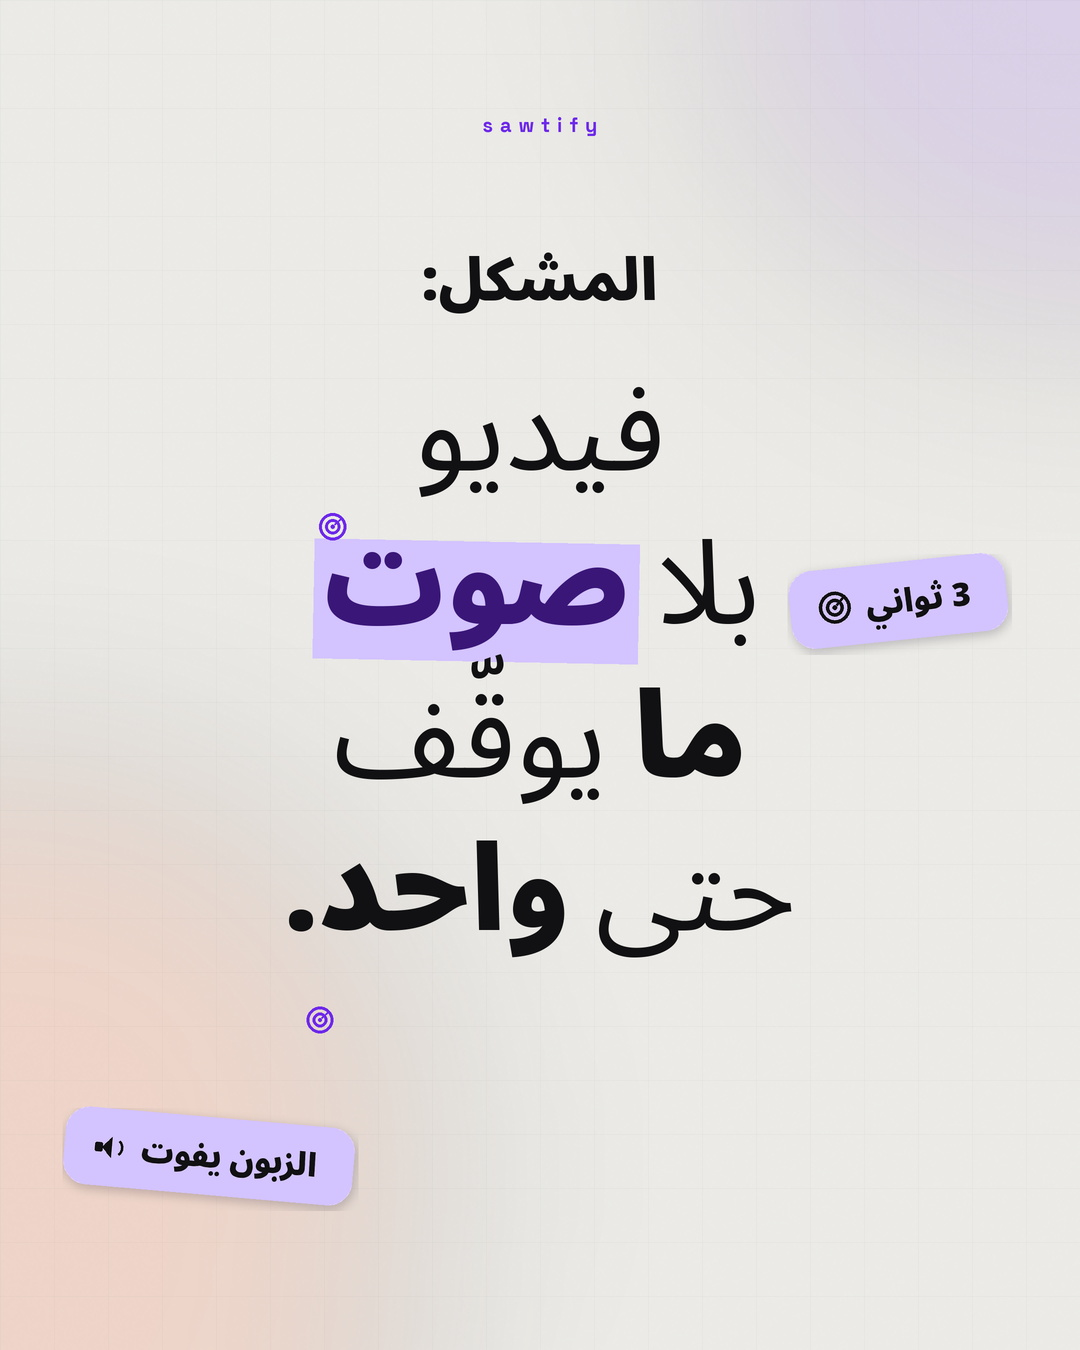
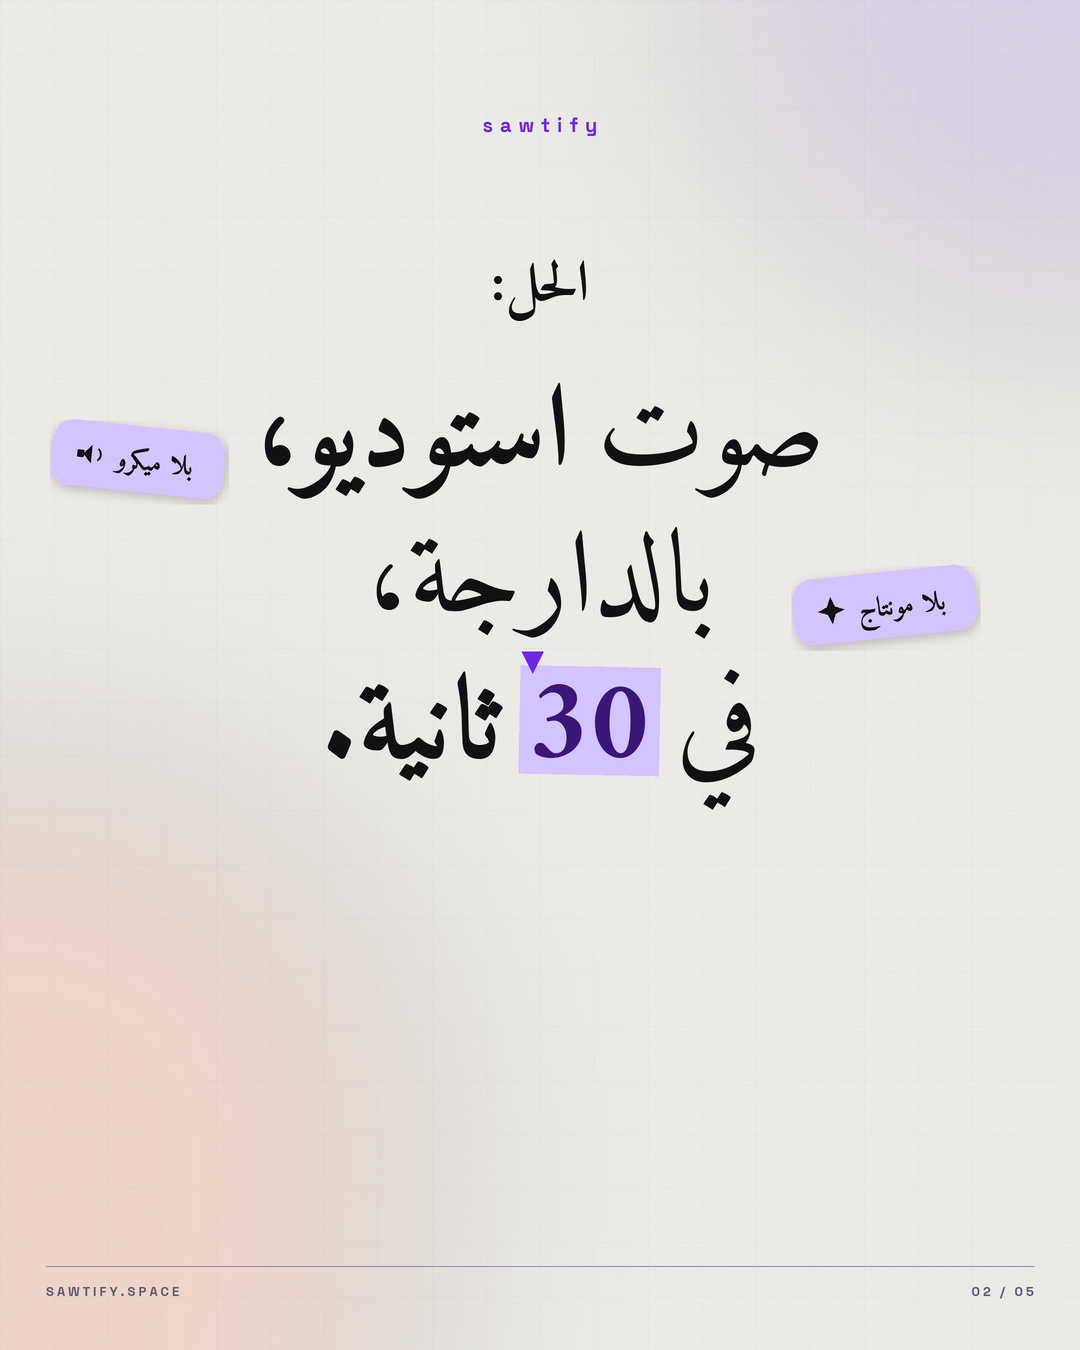
feat(lettre): Amiri (ar) + Space Grotesk (fr), copy reelle Sawtify (30 s, 100 DA, 50 pts)
- polices : Amiri Regular/Bold pour l'arabe, Space Grotesk pour tout le latin ; pastilles en Amiri bold
- copy corrigee sur les vrais chiffres du produit : 20 pts = 1 voix ~100 DA, 500 DA = 5 voix, 30 voix, 50 pts offerts, 30 secondes
- geometrie : taille et haut du bloc calcules ensemble (remplissage de colonne), jamais sous l'accroche
- petit triangle au coin du surligneur (style reference), cibles decoratives retirees
- pied de page url + pagination en Space Grotesk

diff --git a/marketing/instagram/lettre.py b/marketing/instagram/lettre.py
@@ -34,15 +34,20 @@ MUT = (96, 90, 110)
 VIO = (109, 39, 234)
 VIO_SOFT = (211, 195, 255)
 ORANGE = (253, 96, 41)
+ORANGE_SOFT = (255, 206, 186)
 
-REG = "NotoSansArabic-Regular.ttf"
-MED = "NotoSansArabic-SemiBold.ttf"
-BLK = "NotoSansArabic-Black.ttf"
-WORD = "SpaceGrotesk-Bold.ttf"
+# arabe : naskh Amiri (regular + bold) · latin : Space Grotesk
+AMR_R = "Amiri-Regular.ttf"
+AMR_B = "Amiri-Bold.ttf"
+SG_R = "SpaceGrotesk-Regular.ttf"
+SG_M = "SpaceGrotesk-Medium.ttf"
+SG_B = "SpaceGrotesk-Bold.ttf"
 
-WEIGHT = {"r": REG, "m": MED, "b": BLK}
-WEIGHT_LAT = {"r": "SpaceGrotesk-Regular.ttf", "m": "SpaceGrotesk-Medium.ttf",
-              "b": "SpaceGrotesk-Bold.ttf"}
+WEIGHT = {"r": AMR_R, "m": AMR_B, "b": AMR_B}
+WEIGHT_LAT = {"r": SG_R, "m": SG_M, "b": SG_B}
+PILL_FONT = {"ar": AMR_B, "lat": SG_B}
+WORD = SG_B
+BLK = AMR_B
 
 _logo: dict = {}
 
@@ -109,7 +114,7 @@ def _icon(kind, size, color):
     return im
 
 
-def pill_size(text, size, icon, font=BLK):
+def pill_size(text, size, icon, font=AMR_B):
     tw_ = twidth(text, font, size)
     ic = int(size * 1.15) if icon else 0
     gap = int(size * 0.42) if icon else 0
@@ -119,7 +124,7 @@ def pill_size(text, size, icon, font=BLK):
 
 
 def pill(base, text, cx, cy, rot=-6, size=30, fill=VIO_SOFT, fg=INK,
-         icon="target", font=BLK):
+         icon="target", font=AMR_B):
     tw_ = twidth(text, font, size)
     ic = int(size * 1.15) if icon else 0
     gap = int(size * 0.42) if icon else 0
@@ -200,7 +205,7 @@ def hline(base, tokens, cx, y, size, gap=None, fonts=None, rtl=True):
             tdraw(mask, t, xt, y, size, 255, fonts[w], align="left")
             bb = mask.getbbox()
             if bb:
-                px, py = size * 0.12, size * 0.09
+                px, py = size * 0.13, size * 0.15
                 bx0, by0 = bb[0] / SS - px, bb[1] / SS - py
                 bw = (bb[2] - bb[0]) / SS + 2 * px
                 bh = (bb[3] - bb[1]) / SS + 2 * py
@@ -210,7 +215,8 @@ def hline(base, tokens, cx, y, size, gap=None, fonts=None, rtl=True):
                 bar = bar.rotate(-1.1, expand=True, resample=Image.BICUBIC)
                 base.alpha_composite(bar, (int((bx0 - (bar.width / SS - bw) / 2) * SS),
                                            int((by0 - (bar.height / SS - bh) / 2) * SS)))
-                dart(base, bx0 + bw * 0.06, by0 - size * 0.12, size * 0.26, VIO, 0)
+                marker(base, bx0 + size * 0.02, by0 - size * 0.13,
+                       size * 0.19, VIO)
                 tdraw(base, t, xt, y, size, (58, 22, 120), fonts[w], align="left")
                 continue
         tdraw(base, t, xt, y, size, INK, fonts[w], align="left")
@@ -291,146 +297,168 @@ def kicker(base, text, y=300, size=58, font=BLK):
 # ═══════════════════════════════════════════════════════════════════════════
 #  slides
 # ═══════════════════════════════════════════════════════════════════════════
-def slide(spec, seed=3, rtl=True):
+def footer(base, page, rtl=True):
+    """Pied de page : url à gauche, pagination à droite, en Space Grotesk."""
+    d = ImageDraw.Draw(base)
+    f = tk._pil(SG_B, 13)
+    txt = "SAWTIFY.SPACE"
+    x = 46.0
+    for c in txt:
+        d.text((x * SS, 1296 * SS), c, font=f, fill=(*MUT, 255), anchor="ls")
+        x += d.textlength(c, font=f) / SS + 3.0
+    d.line([46 * SS, 1266 * SS, (W - 46) * SS, 1266 * SS],
+           fill=(150, 140, 172, 60), width=int(1.2 * SS))
+    num = page
+    x = W - 46.0
+    for c in reversed(num):
+        x -= d.textlength(c, font=f) / SS
+        d.text((x * SS, 1296 * SS), c, font=f, fill=(*MUT, 255), anchor="ls")
+        x -= 3.0
+
+
+def slide(spec, seed=3, rtl=True, fonts=None, page="", pill_font=None,
+          size_default=96):
     base = paper(seed=seed)
     wordmark(base)
-    fonts = spec.get("fonts") or WEIGHT
-    size = spec.get("size", 118 if rtl else 90)
-    while size > 60 and max((g[2] - g[0]) for g in
-                            lines_geo(spec["lines"], W / 2, 0, size, 1.3, fonts, rtl)) > 812:
-        size -= 2
-    top = spec.get("top", 470)
-    lead = spec.get("lead", 1.30)
-    kicker(base, spec["kicker"], spec.get("kick_y", 300), spec.get("kick_size", 58),
-           fonts["b"] if spec.get("fonts") else BLK)
+    fonts = fonts or WEIGHT
+    pf = pill_font or fonts["b"]
+    size = spec.get("size", size_default)
+    top = spec.get("top", 452)
+    lead = spec.get("lead", 1.26)
+    n = len(spec["lines"])
+    kicker(base, spec["kicker"], spec.get("kick_y", 300),
+           spec.get("kick_size", 56), fonts["b"])
+
+    def wid(sz):
+        return max((g[2] - g[0]) for g in lines_geo(spec["lines"], W / 2, 0,
+                                                     sz, lead, fonts, rtl))
+
+    # on cherche la plus grande taille qui tienne : sous l'accroche et
+    # au-dessus du pied de page, sans jamais dépasser la largeur utile
+    best = (size, top)
+    for sz in range(60, 180, 2):
+        ty = max(top, 356 + 0.94 * sz)
+        bottom = ty + (n - 1) * sz * lead + 0.46 * sz
+        if wid(sz) <= 830 and bottom <= 1180:
+            best = (sz, ty)
+    size, top = best
 
     geo = lines_geo(spec["lines"], W / 2, top, size, lead, fonts, rtl)
     placed = []
-    fallback_y = 1156
     for it in spec.get("pills", ()):
         it = dict(it)
-        if it.get("dy") in (54, 58, 62, 44, 46, 56):   # posé sous la ligne
-            it["dy"] = -14
-        hit = place_pill(it, geo, size, fonts, placed)
+        fnt = PILL_FONT[it.get("font", "ar")] if it.get("font") else pf
+        hit = place_pill(it, geo, size, {"b": fnt}, placed)
         if not hit:
-            # repli : sous le bloc, côté gauche puis droit, sans toucher au texte
-            psize = it.get("size", 32)
-            pw, ph = pill_size(it["t"], psize, it.get("icon", "target"), fonts["b"])
-            for cx in (40 + 24 + pw / 2, W - 40 - 24 - pw / 2):
-                box = (cx - pw / 2, fallback_y - ph / 2, cx + pw / 2,
-                       fallback_y + ph / 2)
+            psize = it.get("size", 30)
+            pw, ph = pill_size(it["t"], psize, it.get("icon", "target"), fnt)
+            last = geo[-1][0] + size * 0.98
+            y = min(max(last + ph * 0.75, 1000), 1160)
+            for cx in (46 + 22 + pw / 2, W - 46 - 22 - pw / 2):
+                box = (cx - pw / 2, y - ph / 2, cx + pw / 2, y + ph / 2)
                 if box[3] < 1216 and not any(_hit(box, q, pad=10) for q in placed):
                     placed.append(box)
-                    pill(base, it["t"], cx, fallback_y, it.get("rot", -6), psize,
+                    pill(base, it["t"], cx, y, it.get("rot", -6), psize,
                          it.get("fill", VIO_SOFT), INK, it.get("icon", "target"),
-                         fonts["b"])
+                         fnt)
                     break
             continue
         cx, cy, psize, box = hit
         placed.append(box)
         pill(base, it["t"], cx, cy, it.get("rot", -6), psize,
-             it.get("fill", VIO_SOFT), INK, it.get("icon", "target"), fonts["b"])
+             it.get("fill", VIO_SOFT), INK, it.get("icon", "target"), fnt)
     block(base, spec["lines"], W / 2, top, size, lead, fonts=fonts, rtl=rtl)
     for d in spec.get("darts", ()):
         dart(base, d[0], d[1], d[2], VIO, d[3] if len(d) > 3 else 0)
+    footer(base, page, rtl)
     return base
 
 
-DZ = {"id": "dz", "seed": 3, "slides": [
-    dict(kicker="شكون احنا:",
-         lines=[[("نصنعو", "r", None)],
-                [("أصوات", "b", "mark"), ("تبيع", "r", None)],
-                [("بالدارجة،", "b", None)],
-                [("من", "r", None), ("الفكرة", "b", None)],
-                [("حتى", "r", None), ("التسليم.", "b", None)]],
-         pills=[dict(t="دارجة بلادنا", anchor=(1, "right"), dx=26, dy=-26,
-                     rot=6, icon="target"),
-                dict(t="500 دج · 30 ثانية", anchor=(0, "right"), dx=-4, dy=56,
-                     rot=-4, icon="sound"),
-                dict(t="تسليم 24 ساعة", anchor=(4, "left"), dx=-6, dy=62,
-                     rot=5, icon="spark")],
-         darts=[(600, 1104, 34), (296, 690, 30, 10)]),
+DZ = {"id": "dz", "seed": 3, "fonts": WEIGHT, "pill_font": AMR_B, "rtl": True,
+      "size": 126, "slides": [
     dict(kicker="المشكل:",
-         lines=[[("فيديو", "r", None)],
-                [("بلا", "r", None), ("صوت", "b", "mark")],
+         lines=[[("فيديو", "r", None), ("بلا", "r", None)],
+                [("صوت،", "b", "mark")],
                 [("ما", "b", None), ("يوقّف", "r", None)],
                 [("حتى", "r", None), ("واحد.", "b", None)]],
-         pills=[dict(t="3 ثواني", anchor=(1, "right"), dx=24, dy=-22, rot=6,
-                     icon="target"),
-                dict(t="الزبون يفوت", anchor=(3, "left"), dx=-4, dy=54, rot=-5,
-                     icon="sound")],
-         darts=[(320, 1020, 30)]),
+         pills=[dict(t="3 ثواني", anchor=(1, "right"), icon="target", size=28),
+                dict(t="الزبون يفوت", anchor=(2, "left"), icon="sound", size=26,
+                     rot=5)]),
+    dict(kicker="الحل:",
+         lines=[[("صوت", "r", None), ("استوديو،", "b", None)],
+                [("بالدارجة،", "r", None)],
+                [("في", "r", None), ("30", "b", "mark"), ("ثانية.", "b", None)]],
+         pills=[dict(t="بلا ميكرو", anchor=(0, "left"), icon="sound", size=27,
+                     rot=-6),
+                dict(t="بلا مونتاج", anchor=(1, "right"), icon="spark", size=27,
+                     rot=6)]),
     dict(kicker="واش تدير:",
-         lines=[[("ابعت", "b", None)],
-                [("السكريبت،", "r", None)],
-                [("ختر", "b", "mark")],
-                [("الصوت،", "r", None)],
-                [("خود", "r", None), ("في 24 ساعة.", "b", None)]],
-         pills=[dict(t="دارجة جزايرية", anchor=(2, "left"), dx=-2, dy=46, rot=-6,
-                     icon="target")],
-         darts=[(600, 1096, 34), (326, 748, 30, -8)]),
-    dict(kicker="الفرق:",
-         lines=[[("24", "b", "mark"), ("ساعة", "r", None)],
-                [("عندنا،", "b", None)],
-                [("21", "b", None), ("يوم", "r", None)],
-                [("في", "r", None), ("الاستوديو.", "b", None)]],
-         pills=[dict(t="بلا انتظار", anchor=(2, "right"), dx=22, dy=-20, rot=-6,
-                     icon="target")],
-         darts=[(340, 1040, 34), (604, 700, 30)]),
-    dict(kicker="و من بعد؟",
-         lines=[[("خود", "r", None)],
-                [("الصوت", "b", "mark")],
-                [("تاعك", "r", None), ("درك.", "b", None)]],
-         pills=[dict(t="500 دج", anchor=(1, "right"), dx=24, dy=-18, rot=6,
-                     icon="spark"),
-                dict(t="sawtify.space", anchor=(2, "left"), dx=-4, dy=58, rot=-5,
-                     icon="target", size=26)],
-         darts=[(560, 1080, 26)]),
+         lines=[[("انسخ", "b", None), ("النص،", "r", None)],
+                [("اختار", "r", None), ("الصوت،", "b", "mark")],
+                [("نزّل", "r", None), ("الملف.", "b", None)]],
+         pills=[dict(t="30 صوت", anchor=(0, "right"), icon="sound", size=27),
+                dict(t="دارجة جزايرية", anchor=(1, "left"), icon="target",
+                     size=24, rot=5)]),
+    dict(kicker="السوم:",
+         lines=[[("20", "b", "mark"), ("نقطة", "r", None)],
+                [("للصوت", "b", None), ("الواحد،", "r", None)],
+                [("يعني", "r", None), ("100 دج", "b", None)],
+                [("تقريبا.", "r", None)]],
+         pills=[dict(t="500 دج = 5 أصوات", anchor=(1, "left"), icon="spark",
+                     size=23, rot=-5)]),
+    dict(kicker="ابدا درك:",
+         lines=[[("50", "b", "mark"), ("نقطة", "r", None)],
+                [("مجانية", "b", None), ("كي", "r", None)],
+                [("تسجّل.", "b", None)]],
+         pills=[dict(t="بلا اشتراك", anchor=(0, "right"), icon="target",
+                     size=26, rot=6),
+                dict(t="sawtify.space", anchor=(2, "left"), icon="spark",
+                     size=24, rot=-5, font="lat")]),
 ]}
 
-FR = {"id": "fr", "seed": 23, "rtl": False, "fonts": WEIGHT_LAT, "slides": [
-    dict(kicker="Qui on est :",
-         lines=[[("On", "r", None), ("crée", "r", None)],
-                [("des", "r", None), ("voix", "b", "mark"), ("qui", "r", None)],
-                [("vendent,", "b", None)],
-                [("en", "r", None), ("darija.", "b", None)]],
-         pills=[dict(t="500 DA · 30 sec", anchor=(0, "right"), dx=14, dy=42,
-                     rot=7, icon="sound"),
-                dict(t="livré en 24 h", anchor=(3, "left"), dx=16, dy=44,
-                     rot=-4, icon="spark")],
-         darts=[(596, 1092, 26)]),
+FR = {"id": "fr", "seed": 23, "fonts": WEIGHT_LAT, "pill_font": SG_B,
+      "rtl": False, "size": 88, "slides": [
     dict(kicker="Le problème :",
          lines=[[("Une", "r", None), ("vidéo", "r", None)],
-                [("sans", "r", None), ("son", "b", "mark")],
+                [("sans", "r", None), ("son,", "b", "mark")],
                 [("n’arrête", "b", None)],
                 [("personne.", "r", None)]],
-         pills=[dict(t="3 secondes", anchor=(1, "right"), dx=22, dy=-20, rot=6,
-                     icon="target")],
-         darts=[(320, 1020, 30)]),
+         pills=[dict(t="3 secondes", anchor=(1, "right"), icon="target",
+                     size=24),
+                dict(t="le client passe", anchor=(2, "left"), icon="sound",
+                     size=22, rot=5)]),
+    dict(kicker="La solution :",
+         lines=[[("Une", "r", None), ("voix", "b", None)],
+                [("studio,", "r", None), ("en", "r", None)],
+                [("darija,", "b", "mark")],
+                [("en 30 s.", "b", None)]],
+         pills=[dict(t="sans micro", anchor=(0, "left"), icon="sound",
+                     size=23, rot=-6),
+                dict(t="sans montage", anchor=(2, "right"), icon="spark",
+                     size=23, rot=6)]),
     dict(kicker="Quoi faire :",
-         lines=[[("Envoyez", "b", None)],
-                [("le", "r", None), ("script,", "b", None)],
-                [("choisissez", "b", "mark")],
-                [("la", "r", None), ("voix.", "b", None)],
-                [("24 h.", "r", None)]],
-         pills=[dict(t="darja algérienne", anchor=(0, "left"), dx=18, dy=44, rot=-6,
-                     icon="target")],
-         darts=[(596, 1080, 26)]),
-    dict(kicker="L’écart :",
-         lines=[[("24", "b", "mark"), ("heures", "r", None)],
-                [("chez", "r", None), ("nous,", "b", None)],
-                [("21", "b", None), ("jours", "r", None)],
-                [("en", "r", None), ("studio.", "b", None)]],
-         pills=[dict(t="sans attendre", anchor=(2, "right"), dx=16, dy=-54, rot=-6,
-                     icon="target")],
-         darts=[(340, 1030, 28)]),
-    dict(kicker="Et après ?",
-         lines=[[("Prenez", "r", None)],
-                [("votre", "b", "mark")],
-                [("voix", "r", None), ("maintenant.", "b", None)]],
-         pills=[dict(t="500 DA", anchor=(1, "right"), dx=24, dy=-18, rot=6,
-                     icon="spark")],
-         darts=[(560, 1080, 26)]),
+         lines=[[("Copiez", "b", None), ("le", "r", None)],
+                [("texte,", "r", None), ("choisissez", "r", None)],
+                [("la", "b", None), ("voix,", "b", "mark")],
+                [("téléchargez.", "r", None)]],
+         pills=[dict(t="30 voix", anchor=(0, "right"), icon="sound", size=24),
+                dict(t="darija DZ", anchor=(2, "left"), icon="target",
+                     size=23, rot=5)]),
+    dict(kicker="Le prix :",
+         lines=[[("20", "b", "mark"), ("points", "r", None)],
+                [("= une voix,", "b", None)],
+                [("environ", "r", None), ("100", "b", None)],
+                [("DA.", "b", None)]],
+         pills=[dict(t="500 DA = 5 voix", anchor=(1, "left"), icon="spark",
+                     size=21, rot=-5)]),
+    dict(kicker="Commencez :",
+         lines=[[("50", "b", "mark"), ("points", "r", None)],
+                [("offerts", "b", None), ("dès", "r", None)],
+                [("l’inscription.", "b", None)]],
+         pills=[dict(t="sans abonnement", anchor=(0, "right"), icon="target",
+                     size=22, rot=6),
+                dict(t="sawtify.space", anchor=(2, "left"), icon="spark",
+                     size=22, rot=-5)]),
 ]}
 
 PUBS = [DZ, FR]
@@ -440,8 +468,10 @@ def render(pub):
     d = OUT / pub["id"]
     d.mkdir(parents=True, exist_ok=True)
     for i, spec in enumerate(pub["slides"]):
-        img = slide(spec, seed=pub["seed"] + i,
-                    rtl=pub.get("rtl", True)).convert("RGB").resize(
+        img = slide(spec, seed=pub["seed"] + i, rtl=pub.get("rtl", True),
+                    fonts=pub.get("fonts"), page=f"{i + 1:02d} / 05",
+                    pill_font=pub.get("pill_font"),
+                    size_default=pub.get("size", 96)).convert("RGB").resize(
             (W, H), Image.LANCZOS)
         img.save(d / f"{i + 1:02d}.jpg", quality=95, optimize=True, subsampling=1)
         print("  ✓", pub["id"], f"{i + 1:02d}")
